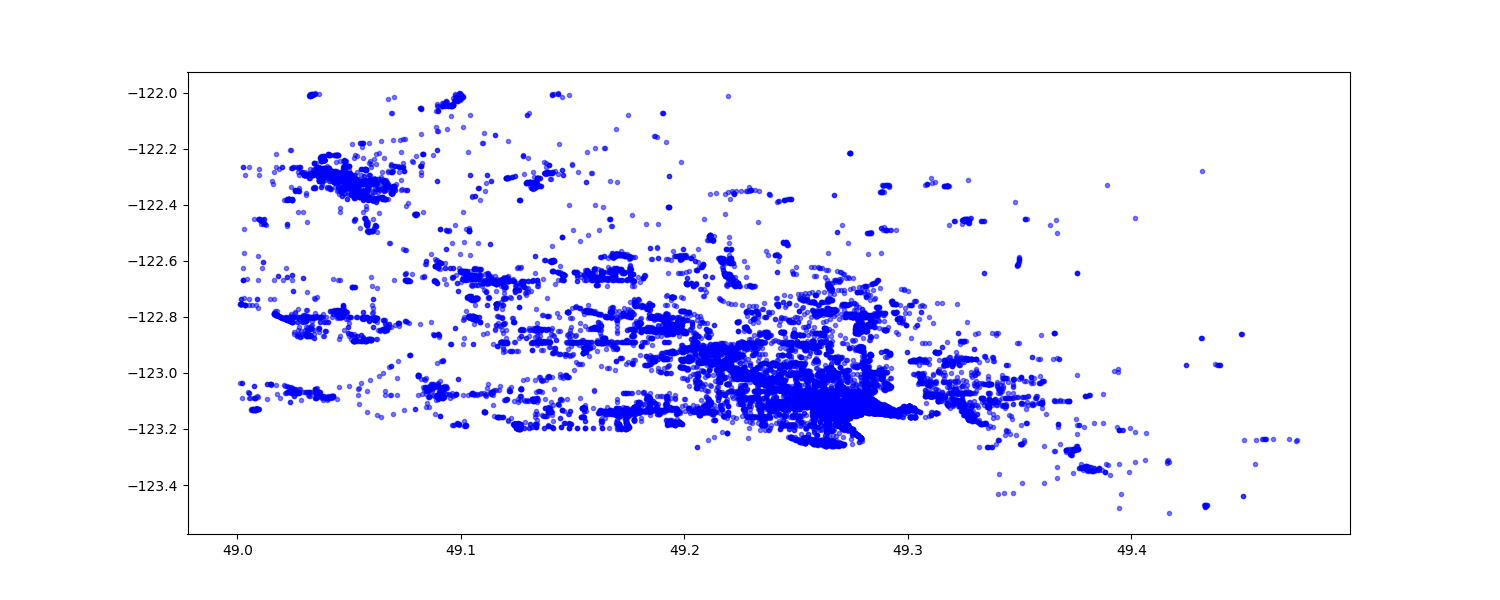
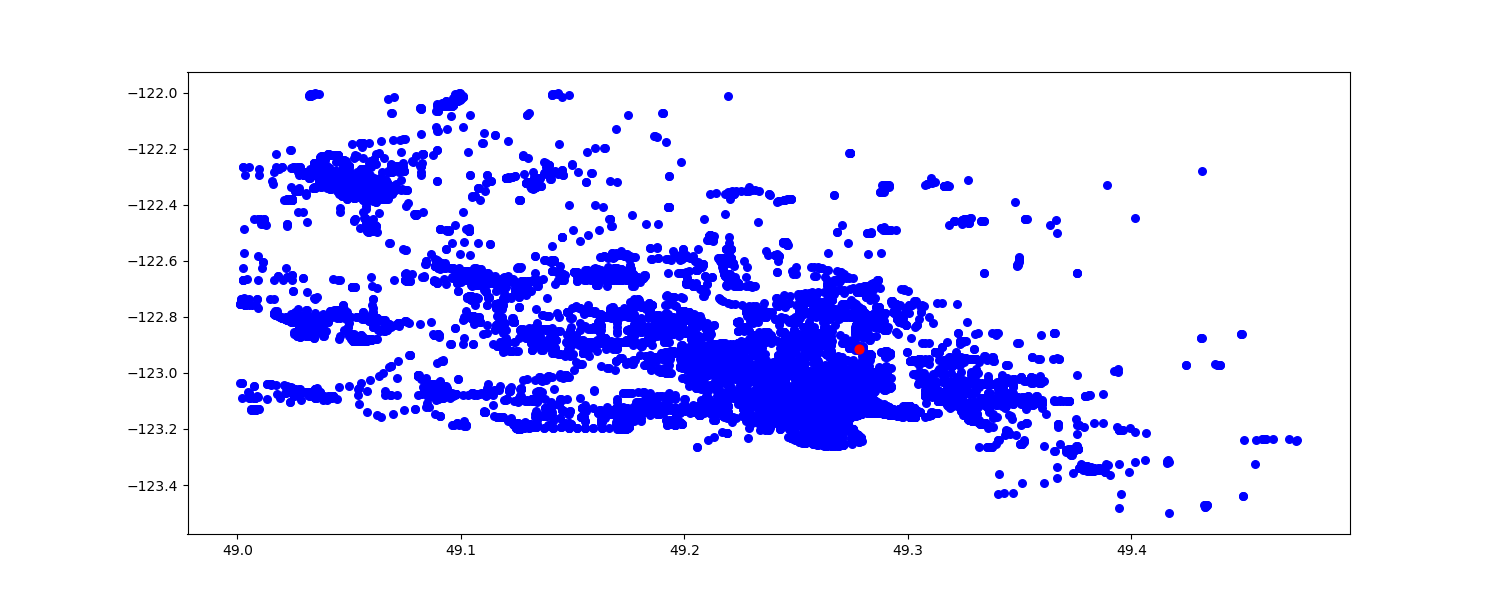
changed data code and photo of original graph

diff --git a/code/data.py b/code/data.py
@@ -79,19 +79,17 @@ log_udf = functions.udf(log_transform, returnType=types.DoubleType())
 
 def main(photoPath, osm):
     
-    """
+
     #gets lat and long coords of photo
     imgCoords = image_coordinates(photoPath)
     if (not imgCoords):
         print("Error")
         return
-    """
+
 
     
     #load up vancouver data and store relevant info into variables
     allVanData = spark.read.json(osm, schema= amenity_schema)
-    burnabyCoords = spark.read.json('burnaby_coords.txt')
-    burnabyCoords.show()
 
     allVanData = allVanData.select('lat', 'lon', 'amenity')
     allVanData = allVanData.cache()
@@ -123,13 +121,14 @@ def main(photoPath, osm):
     print(model.predict(X_test))
     """
 
-    """
+    X = np.array(allVanData.select('lat').collect())
+    Y = np.array(allVanData.select('lon').collect())
     plt.figure(figsize=(15, 6))
-    plt.plot(X, Y, '.b', alpha = 0.5)
-    plt.plot(imgCoords[0], imgCoords[1], '.r' ,alpha = 0.8)
-    plt.savefig('filtered_output.png')
+    plt.scatter(X, Y, color = 'blue', s = 30)
+    plt.scatter(imgCoords[0], imgCoords[1], color="red", s = 40)
+    plt.savefig('output.png')
     plt.close()
-    """
+    
 
     
 if __name__ == '__main__':

diff --git a/code/api.py b/code/api.py
@@ -38,22 +38,20 @@ def image_coordinates(img_path):
         print("Was taken:", img.datetime_original,"and has coordinates:",coords)
         return coords
 
+base = "https://api.geoapify.com/v1/geocode/reverse?lat=49.219983&lon=-122.988481&apiKey=afd572b5a5414cc58c98b25e8ce47fb7"
 
-#Turns parameters lat and lon into a url that we can use for api *WHAT WE NEED*
+
+
 base_url = "https://api.geoapify.com/v1/geocode/reverse?lat=&lon=&apiKey=afd572b5a5414cc58c98b25e8ce47fb7"
-def get_url(lat, lon):
-    coord_url = base_url[:48] + str(lat) +base_url[48] + base_url[49:53] + str(lon) + base_url[53:]
-    return coord_url
-#gets lat and long coords of photo
+
+    #gets lat and long coords of photo
 imgCoords = image_coordinates('IMG_8590.jpg')
 if (not imgCoords):
     print("Error")
+
 lat = str(imgCoords[0])
 lon = str(imgCoords[1])
-coord_url = base_url[:48] + lat +base_url[48] + base_url[49:53] + lon + base_url[53:]
-#*WHAT WE NEED*
 
-"""
-resp = requests.get(coord_url)
-print(resp.content)
-"""
+coord_url = base_url[:48] + lat +base_url[48] + base_url[49:53] + lon + base_url[53:]
+print(coord_url)
+
